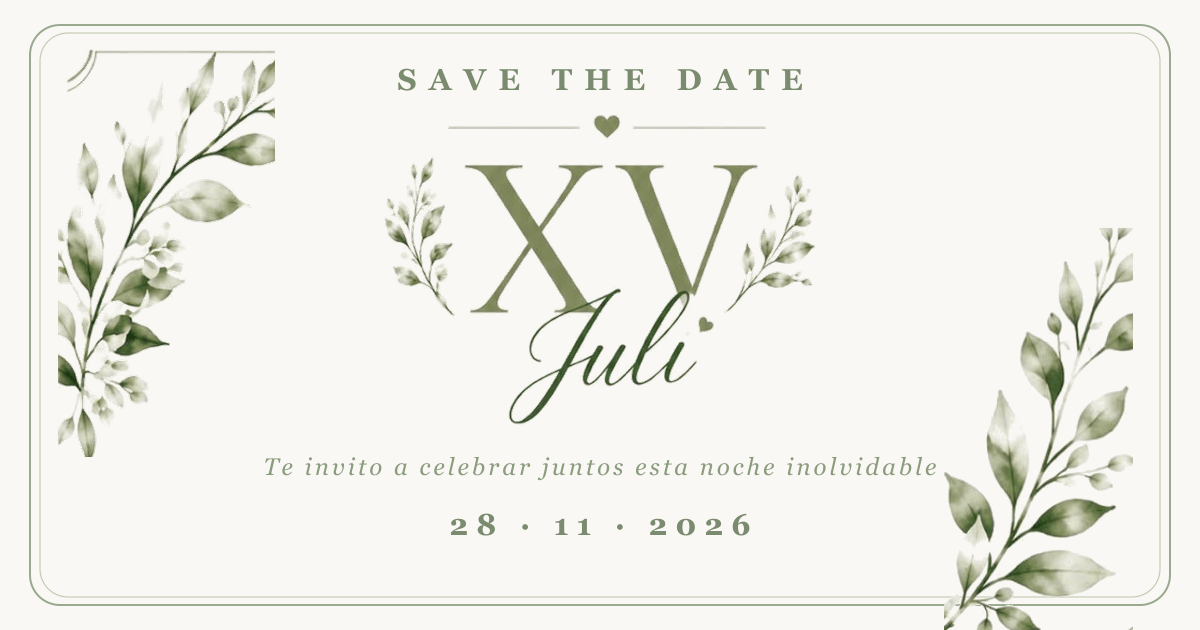
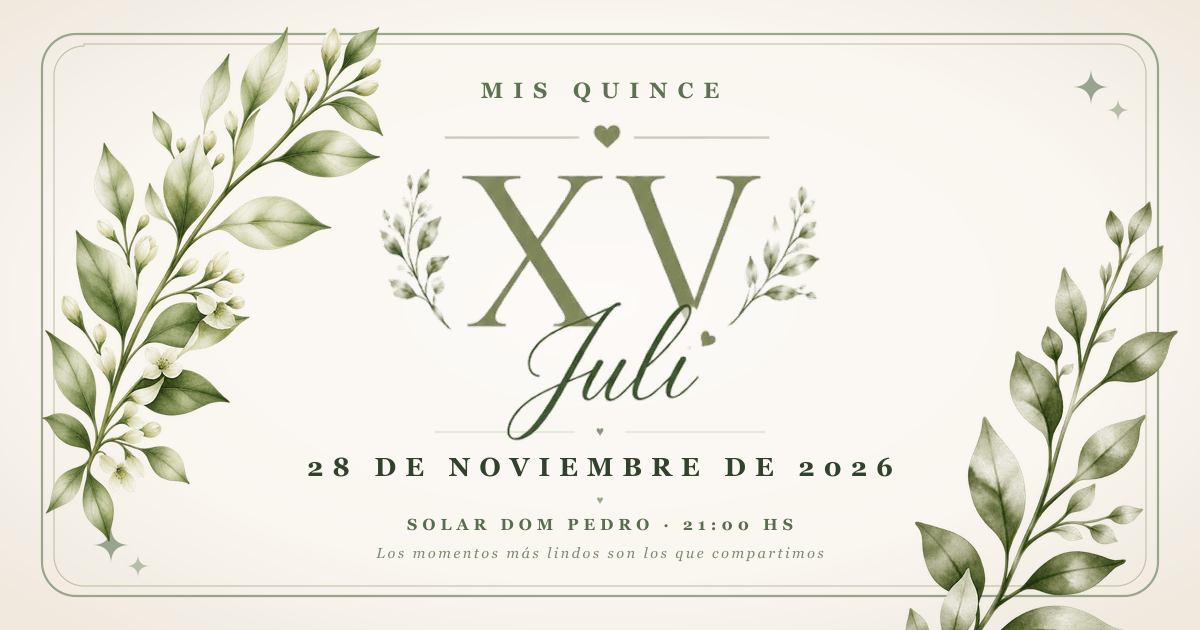
feat: actualizar miniatura Open Graph con diseno de tarjeta de invitacion

diff --git a/src/app/layout.tsx b/src/app/layout.tsx
@@ -40,15 +40,17 @@ export const metadata: Metadata = {
   openGraph: {
     title: 'Mis 15 — Julia',
     description:
-      'Estás invitado/a a celebrar los 15 años de Julia. 28 de noviembre de 2026.',
+      'Estás invitado/a a celebrar los 15 años de Julia. 28 de noviembre de 2026. ¡Confirmá tu asistencia!',
     url: 'https://cumplejuliaxv.netlify.app',
     siteName: 'Mis 15 — Julia',
     images: [
       {
-        url: '/og-image.png',
+        url: 'https://cumplejuliaxv.netlify.app/og-image.png?v=2',
+        secureUrl: 'https://cumplejuliaxv.netlify.app/og-image.png?v=2',
         width: 1200,
         height: 630,
-        alt: 'Mis 15 — Julia | 28 de noviembre de 2026',
+        type: 'image/png',
+        alt: 'Tarjeta de Invitación — Mis 15 Julia | 28 de noviembre de 2026',
       },
     ],
     type: 'website',
@@ -58,7 +60,7 @@ export const metadata: Metadata = {
     card: 'summary_large_image',
     title: 'Mis 15 — Julia',
     description: 'Estás invitado/a a celebrar los 15 años de Julia. 28 de noviembre de 2026.',
-    images: ['/og-image.png'],
+    images: ['https://cumplejuliaxv.netlify.app/og-image.png?v=2'],
   },
 };
 
